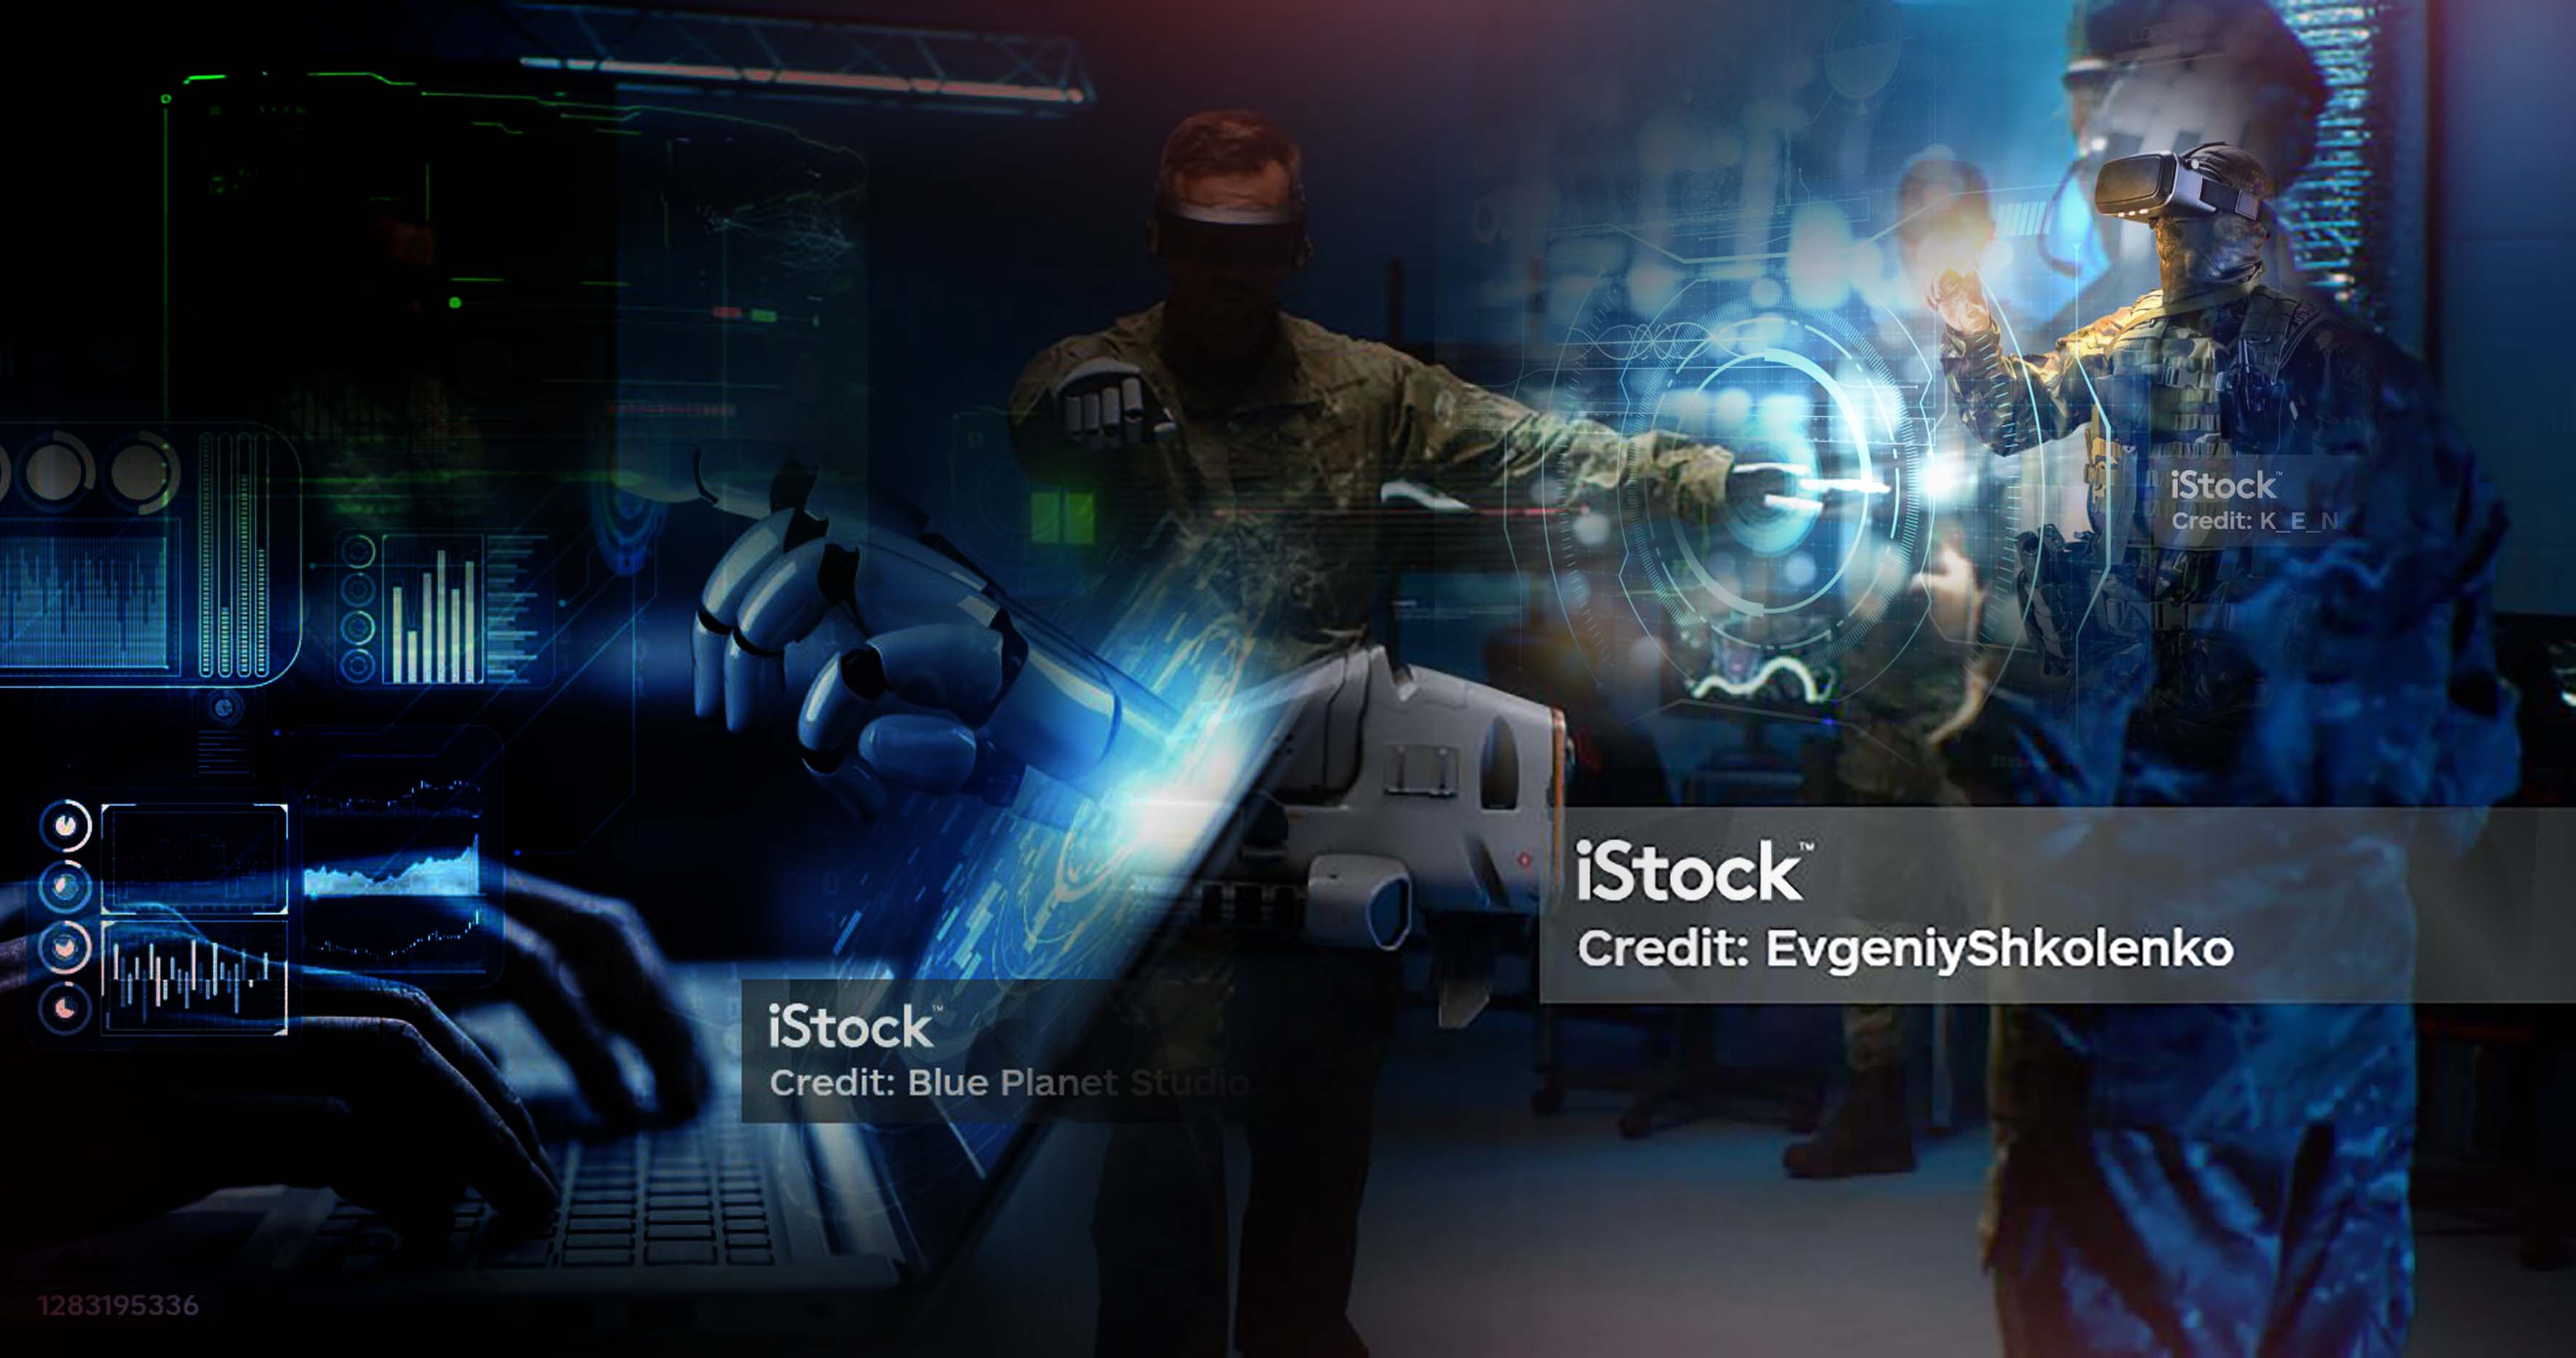
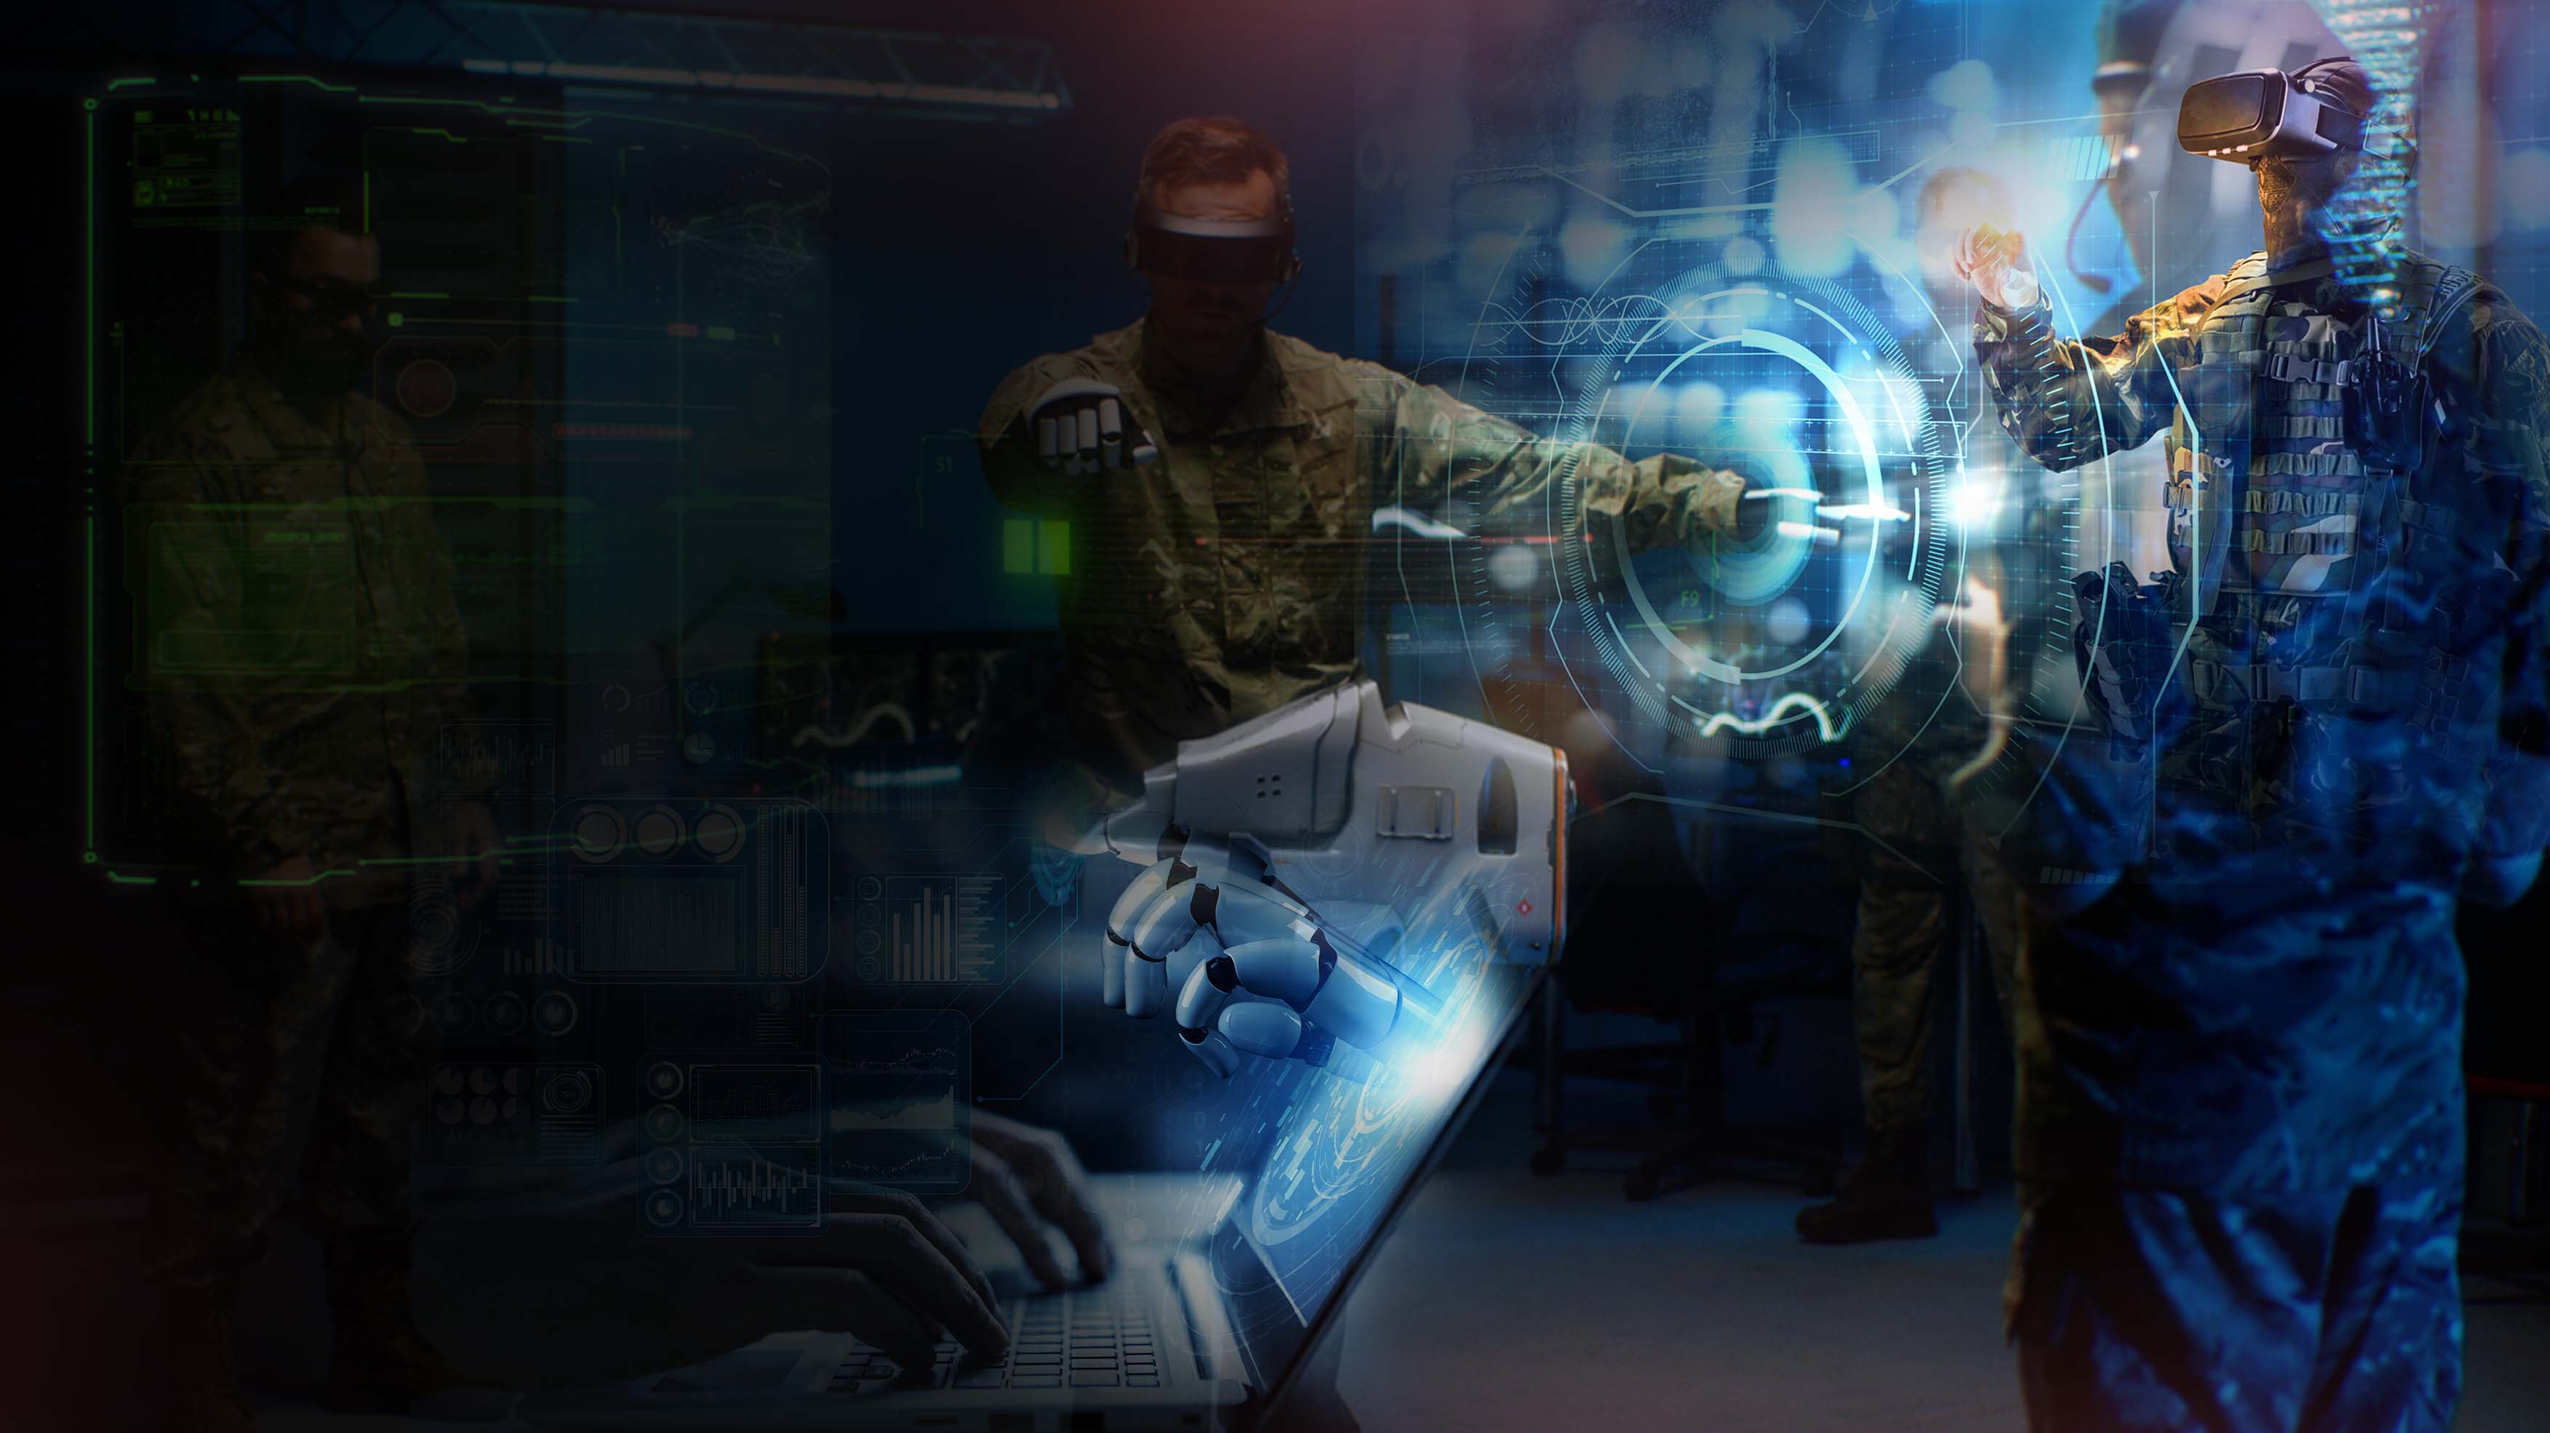
upload new image

diff --git a/src/lib/data.js b/src/lib/data.js
@@ -29,7 +29,7 @@ export const ABOUT_BANNER = [
     label: 'Tactical Equipment',
     value: 'Enhance your operational capabilities with our advanced range of tactical equipment. Designed for reliability and performance in diverse environments, our solutions offer superior functionality, ensuring improved situational awareness, enhanced communication, and optimized operational efficiency. Our technologies provide the essential tools required for mission success and personnel safety. ',
     list: ['Thermal Weapon Scope',"Multifunction Binocular", "Night-Vision Device", "Portable Signaling Surveillance", "Tactical Network Relay System", "Interoperability Extended Communication Relay System", "Power Management System"], 
-    image: '/images/img_08.jpg',
+    image: '/images/img_02.jpg',
   },
 ];
 
